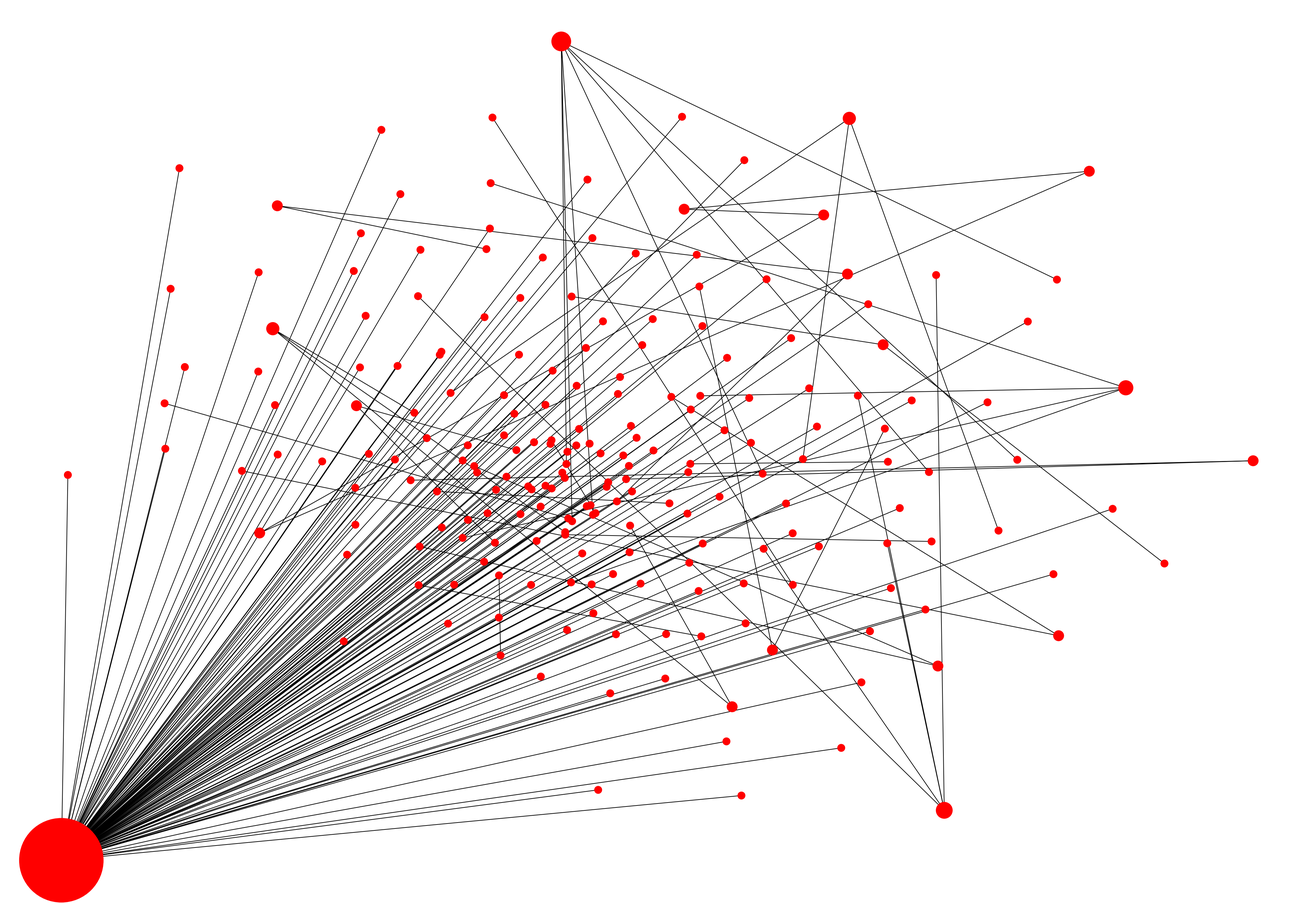
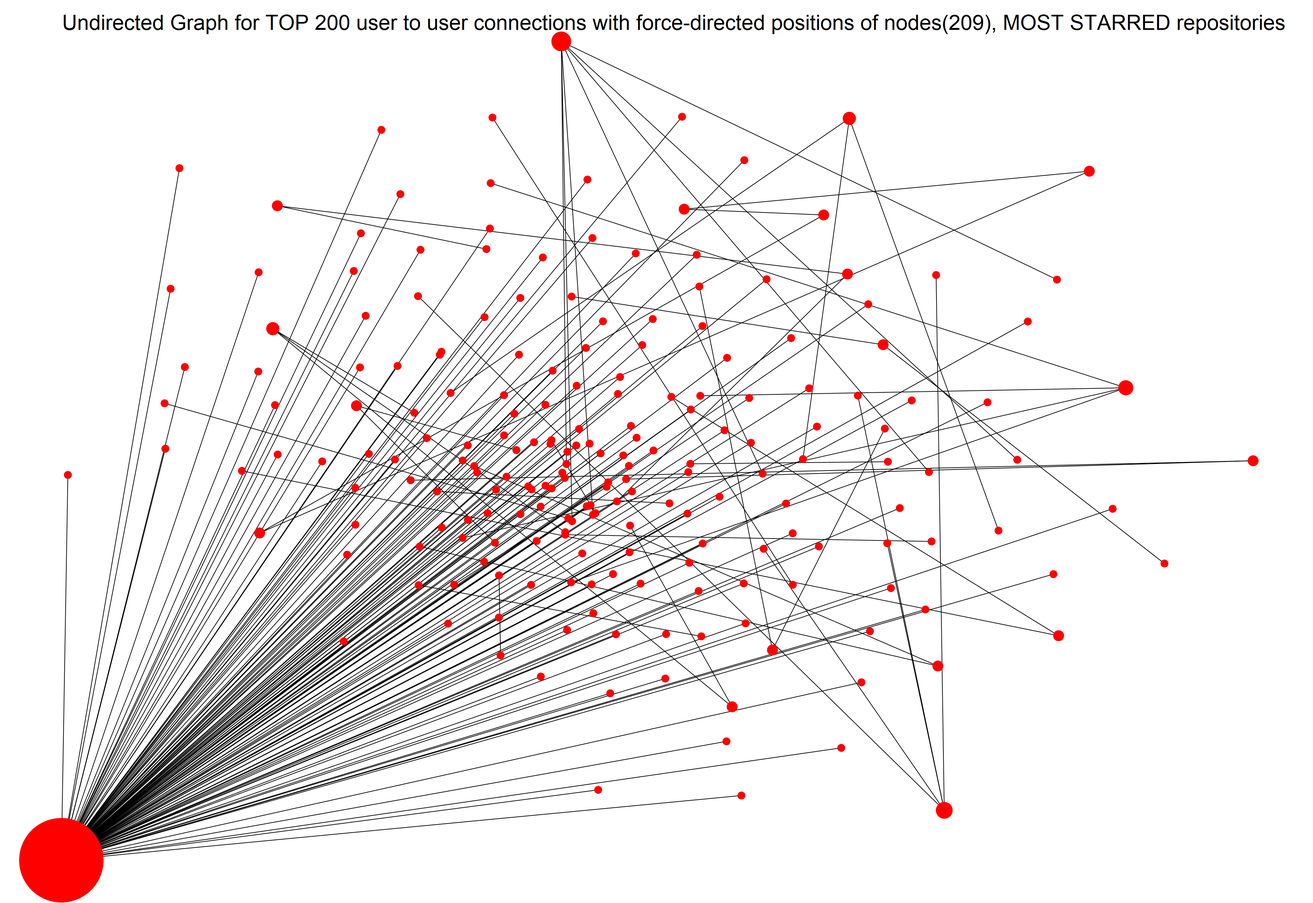
sdfsd12

Changed region(s): [[0.0625, 0.0, 0.9688, 0.0309]]

diff --git a/index.html b/index.html
@@ -304,7 +304,7 @@
                     </div>
                     <div class="s-portfolio__caption-hover--cc">
                         <div class="g-margin-b-25--xs">
-                            <h2 class="g-font-size-18--xs g-color--white g-margin-b-5--xs">Directed Graph for rep2rep with</h2>
+                            <h2 class="g-font-size-18--xs g-color--white g-margin-b-5--xs">Directed Graph for rep2rep with force-directed positions</h2>
                             <p class="g-color--white-opacity">Directed Graph for TOP 1000 repository to repository connections with force-directed positions to show how connections between repositories are built. Size corresponds to the degree of node. Color corresponds to the number of contributors. Width of edge of the weight of connection(meaning how many users are shared between them).</p>
                         </div>
                         <ul class="list-inline g-ul-li-lr-5--xs g-margin-b-0--xs">
@@ -342,7 +342,7 @@
                     </div>
                     <div class="s-portfolio__caption-hover--cc">
                         <div class="g-margin-b-25--xs">
-                            <h4 class="g-font-size-18--xs g-color--white g-margin-b-5--xs">Directed graph with betweenes centrality</h4>
+                            <h4 class="g-font-size-18--xs g-color--white g-margin-b-5--xs">Directed graph with betweenes centrality related node size</h4>
                             <p class="g-color--white-opacity">Directed Graph for TOP 1000 repository to repository connections with force-directed positions to show how connections between repositories are built. Size corresponds to the betweenes centrality. Color corresponds to the number of contributors. Width of edge of the weight of connection.</p>
                         </div>
                         <ul class="list-inline g-ul-li-lr-5--xs g-margin-b-0--xs">
@@ -355,144 +355,228 @@
                     </div>
                 </div>
                 <!-- Item -->
-                <div class="s-portfolio__item cbp-item motion graphic">
+                <div class="s-portfolio__item cbp-item rep">
                     <div class="s-portfolio__img-effect">
-                        <img src="img/400x550/01.jpg" alt="Portfolio Image">
+                        <img src="img/graphs/directedGFAEi.png" alt="directedGFAEi.png">
                     </div>
                     <div class="s-portfolio__caption-hover--cc">
                         <div class="g-margin-b-25--xs">
-                            <h4 class="g-font-size-18--xs g-color--white g-margin-b-5--xs">Portfolio Item</h4>
-                            <p class="g-color--white-opacity">by KeenThemes Inc.</p>
+                            <h4 class="g-font-size-18--xs g-color--white g-margin-b-5--xs">Directed graph with eigenvector centrality related node size</h4>
+                            <p class="g-color--white-opacity">Directed Graph for TOP 1000 repository to repository connections with force-directed positions to show how connections between repositories are built. Size corresponds to the eigenvector centrality. Color corresponds to the number of contributors. Width of edge of the weight of connection.</p>
                         </div>
                         <ul class="list-inline g-ul-li-lr-5--xs g-margin-b-0--xs">
                             <li>
-                                <a href="img/400x550/01.jpg" class="cbp-lightbox s-icon s-icon--sm s-icon--white-bg g-radius--circle" data-title="Portfolio Item <br/> by KeenThemes Inc.">
+                                <a href="img/graphs/directedGFAEi.png" class="cbp-lightbox s-icon s-icon--sm s-icon--white-bg g-radius--circle" data-title="Portfolio Item <br/> by KeenThemes Inc.">
                                     <i class="ti-fullscreen"></i>
-                                </a>
-                            </li>
-                            <li>
-                                <a href="http://themeforest.net/item/metronic-responsive-admin-dashboard-template/4021469?ref=keenthemes" class="s-icon s-icon--sm s-icon s-icon--white-bg g-radius--circle">
-                                    <i class="ti-link"></i>
                                 </a>
                             </li>
                         </ul>
                     </div>
                 </div>
                 <!-- Item -->
-                <div class="s-portfolio__item cbp-item logos graphic">
+                <div class="s-portfolio__item cbp-item rep">
                     <div class="s-portfolio__img-effect">
-                        <img src="img/970x647/09.jpg" alt="Portfolio Image">
+                        <img src="img/graphs/directedGFAcom.png" alt="Portfolio Image">
                     </div>
                     <div class="s-portfolio__caption-hover--cc">
                         <div class="g-margin-b-25--xs">
-                            <h4 class="g-font-size-18--xs g-color--white g-margin-b-5--xs">Portfolio Item</h4>
-                            <p class="g-color--white-opacity">by KeenThemes Inc.</p>
+                            <h4 class="g-font-size-18--xs g-color--white g-margin-b-5--xs">Directed graph of communities r2r connections(fa2 pos)</h4>
+                            <p class="g-color--white-opacity">Directed graph of communities present between repositories. Each color represents one community. There is around 25 communities in those top 1000 connections. Postions of nodes are calculated with force-directing algorithm.</p>
                         </div>
                         <ul class="list-inline g-ul-li-lr-5--xs g-margin-b-0--xs">
                             <li>
-                                <a href="img/970x647/09.jpg" class="cbp-lightbox s-icon s-icon--sm s-icon--white-bg g-radius--circle" data-title="Portfolio Item <br/> by KeenThemes Inc.">
+                                <a href="img/graphs/directedGFAcom.png" class="cbp-lightbox s-icon s-icon--sm s-icon--white-bg g-radius--circle" data-title="Portfolio Item <br/> by KeenThemes Inc.">
                                     <i class="ti-fullscreen"></i>
-                                </a>
-                            </li>
-                            <li>
-                                <a href="http://themeforest.net/item/metronic-responsive-admin-dashboard-template/4021469?ref=keenthemes" class="s-icon s-icon--sm s-icon s-icon--white-bg g-radius--circle">
-                                    <i class="ti-link"></i>
                                 </a>
                             </li>
                         </ul>
                     </div>
                 </div>
                 <!-- Item -->
-                <div class="s-portfolio__item cbp-item motion graphic">
+                <div class="s-portfolio__item cbp-item rep">
                     <div class="s-portfolio__img-effect">
-                        <img src="img/970x647/04.jpg" alt="Portfolio Image">
+                        <img src="img/graphs/directedGFAcom1.png" alt="Portfolio Image">
                     </div>
                     <div class="s-portfolio__caption-hover--cc">
                         <div class="g-margin-b-25--xs">
-                            <h4 class="g-font-size-18--xs g-color--white g-margin-b-5--xs">Portfolio Item</h4>
-                            <p class="g-color--white-opacity">by KeenThemes Inc.</p>
+                            <h4 class="g-font-size-18--xs g-color--white g-margin-b-5--xs">Directed graph of communities r2r connections</h4>
+                            <p class="g-color--white-opacity">Directed graph of communities present between repositories. Each color represents one community. There is around 25 communities in those top 1000 connections. Default position of nodes.</p>
                         </div>
                         <ul class="list-inline g-ul-li-lr-5--xs g-margin-b-0--xs">
                             <li>
-                                <a href="img/970x647/04.jpg" class="cbp-lightbox s-icon s-icon--sm s-icon--white-bg g-radius--circle" data-title="Portfolio Item <br/> by KeenThemes Inc.">
+                                <a href="img/graphs/directedGFAcom1.png" class="cbp-lightbox s-icon s-icon--sm s-icon--white-bg g-radius--circle" data-title="Portfolio Item <br/> by KeenThemes Inc.">
                                     <i class="ti-fullscreen"></i>
-                                </a>
-                            </li>
-                            <li>
-                                <a href="http://themeforest.net/item/metronic-responsive-admin-dashboard-template/4021469?ref=keenthemes" class="s-icon s-icon--sm s-icon s-icon--white-bg g-radius--circle">
-                                    <i class="ti-link"></i>
                                 </a>
                             </li>
                         </ul>
                     </div>
                 </div>
                 <!-- Item -->
-                <div class="s-portfolio__item cbp-item logos">
+                <div class="s-portfolio__item cbp-item rep">
                     <div class="s-portfolio__img-effect">
-                        <img src="img/400x500/03.jpg" alt="Portfolio Image">
+                        <img src="img/graphs/BAlikegraphs.png" alt="BAlikegraphs.png">
                     </div>
                     <div class="s-portfolio__caption-hover--cc">
                         <div class="g-margin-b-25--xs">
-                            <h4 class="g-font-size-18--xs g-color--white g-margin-b-5--xs">Portfolio Item</h4>
-                            <p class="g-color--white-opacity">by KeenThemes Inc.</p>
+                            <h4 class="g-font-size-18--xs g-color--white g-margin-b-5--xs">Top 100 and top 50 of repositories' connections</h4>
+                            <p class="g-color--white-opacity">Example graphs of top 100 and top 50 of repositories' connections</p>
                         </div>
                         <ul class="list-inline g-ul-li-lr-5--xs g-margin-b-0--xs">
                             <li>
-                                <a href="img/400x500/03.jpg" class="cbp-lightbox s-icon s-icon--sm s-icon--white-bg g-radius--circle" data-title="Portfolio Item <br/> by KeenThemes Inc.">
+                                <a href="img/graphs/BAlikegraphs.png" class="cbp-lightbox s-icon s-icon--sm s-icon--white-bg g-radius--circle" data-title="Portfolio Item <br/> by KeenThemes Inc.">
                                     <i class="ti-fullscreen"></i>
-                                </a>
-                            </li>
-                            <li>
-                                <a href="http://themeforest.net/item/metronic-responsive-admin-dashboard-template/4021469?ref=keenthemes" class="s-icon s-icon--sm s-icon s-icon--white-bg g-radius--circle">
-                                    <i class="ti-link"></i>
                                 </a>
                             </li>
                         </ul>
                     </div>
                 </div>
                 <!-- Item -->
-                <div class="s-portfolio__item cbp-item motion graphic">
+                <div class="s-portfolio__item cbp-item rep">
                     <div class="s-portfolio__img-effect">
-                        <img src="img/400x500/04.jpg" alt="Portfolio Image">
+                        <img src="img/graphs/BAlikegraphs.png" alt="Portfolio Image">
                     </div>
                     <div class="s-portfolio__caption-hover--cc">
                         <div class="g-margin-b-25--xs">
-                            <h4 class="g-font-size-18--xs g-color--white g-margin-b-5--xs">Portfolio Item</h4>
-                            <p class="g-color--white-opacity">by KeenThemes Inc.</p>
+                            <h4 class="g-font-size-18--xs g-color--white g-margin-b-5--xs">Top 10 and top 5 of repositories' connections with names</h4>
+                            <p class="g-color--white-opacity">Example graphs of top 100 and top 50 of repositories' connections with names of repositories.</p>
                         </div>
                         <ul class="list-inline g-ul-li-lr-5--xs g-margin-b-0--xs">
                             <li>
-                                <a href="img/400x500/04.jpg" class="cbp-lightbox s-icon s-icon--sm s-icon--white-bg g-radius--circle" data-title="Portfolio Item <br/> by KeenThemes Inc.">
+                                <a href="img/graphs/BAlikegraphs.png" class="cbp-lightbox s-icon s-icon--sm s-icon--white-bg g-radius--circle" data-title="Portfolio Item <br/> by KeenThemes Inc.">
                                     <i class="ti-fullscreen"></i>
-                                </a>
-                            </li>
-                            <li>
-                                <a href="http://themeforest.net/item/metronic-responsive-admin-dashboard-template/4021469?ref=keenthemes" class="s-icon s-icon--sm s-icon s-icon--white-bg g-radius--circle">
-                                    <i class="ti-link"></i>
                                 </a>
                             </li>
                         </ul>
                     </div>
                 </div>
                 <!-- Item -->
-                <div class="s-portfolio__item cbp-item motion stats">
+                <div class="s-portfolio__item cbp-item user">
                     <div class="s-portfolio__img-effect">
-                        <img src="img/970x647/07.jpg" alt="Portfolio Image">
+                        <img src="img/graphs/directedGFAUser.png" alt="directedGFAUser">
                     </div>
                     <div class="s-portfolio__caption-hover--cc">
                         <div class="g-margin-b-25--xs">
-                            <h4 class="g-font-size-18--xs g-color--white g-margin-b-5--xs">Portfolio Item</h4>
-                            <p class="g-color--white-opacity">by KeenThemes Inc.</p>
+                            <h4 class="g-font-size-18--xs g-color--white g-margin-b-5--xs">Directed Graph for user2user with force-directed positions</h4>
+                            <p class="g-color--white-opacity">Directed Graph for TOP 200 user to user connections with force-directed positions to show how connections between users are built.
+                              Sizes correspond to the degree of the node. Weight corresponds to the number of commits. Width of edge of the weight of connection(meaning how many most starred repositories are shared between them).</p>
                         </div>
                         <ul class="list-inline g-ul-li-lr-5--xs g-margin-b-0--xs">
                             <li>
-                                <a href="img/970x647/07.jpg" class="cbp-lightbox s-icon s-icon--sm s-icon--white-bg g-radius--circle" data-title="Portfolio Item <br/> by KeenThemes Inc.">
+                                <a href="img/graphs/directedGFAUser.png" class="cbp-lightbox s-icon s-icon--sm s-icon--white-bg g-radius--circle" data-title="Portfolio Item <br/> by KeenThemes Inc.">
                                     <i class="ti-fullscreen"></i>
                                 </a>
                             </li>
+                        </ul>
+                    </div>
+                </div>
+                <!-- Item -->
+                <div class="s-portfolio__item cbp-item user">
+                    <div class="s-portfolio__img-effect">
+                        <img src="img/graphs/undirectedGFAUser.png" alt="undirectedGFAUser">
+                    </div>
+                    <div class="s-portfolio__caption-hover--cc">
+                        <div class="g-margin-b-25--xs">
+                            <h4 class="g-font-size-18--xs g-color--white g-margin-b-5--xs">Undirected Graph for user2user with force-directed positions</h4>
+                            <p class="g-color--white-opacity">Directed Graph for TOP 200 user to user connections with force-directed positions to show how connections between users are built.
+                              Sizes correspond to the degree of the node. Weight corresponds to the number of commits. Width of edge of the weight of connection(meaning how many most starred repositories are shared between them). </p>
+                        </div>
+                        <ul class="list-inline g-ul-li-lr-5--xs g-margin-b-0--xs">
                             <li>
-                                <a href="http://themeforest.net/item/metronic-responsive-admin-dashboard-template/4021469?ref=keenthemes" class="s-icon s-icon--sm s-icon s-icon--white-bg g-radius--circle">
-                                    <i class="ti-link"></i>
+                                <a href="img/graphs/undirectedGFAUser.png" class="cbp-lightbox s-icon s-icon--sm s-icon--white-bg g-radius--circle" data-title="Portfolio Item <br/> by KeenThemes Inc.">
+                                    <i class="ti-fullscreen"></i>
+                                </a>
+                            </li>
+                        </ul>
+                    </div>
+                </div>
+                <div class="s-portfolio__item cbp-item user">
+                    <div class="s-portfolio__img-effect">
+                        <img src="img/graphs/directedGUser.png" alt="directedGUser.png">
+                    </div>
+                    <div class="s-portfolio__caption-hover--cc">
+                        <div class="g-margin-b-25--xs">
+                            <h4 class="g-font-size-18--xs g-color--white g-margin-b-5--xs">Directed Graph for user2user with default positions</h4>
+                            <p class="g-color--white-opacity">Directed Graph for TOP 200 user to user connections with default positions to show how connections between users are built.
+                              Sizes correspond to the degree of the node. Weight corresponds to the number of commits. Width of edge of the weight of connection(meaning how many most starred repositories are shared between them). </p>
+                        </div>
+                        <ul class="list-inline g-ul-li-lr-5--xs g-margin-b-0--xs">
+                            <li>
+                                <a href="img/graphs/directedGUser.png" class="cbp-lightbox s-icon s-icon--sm s-icon--white-bg g-radius--circle" data-title="Portfolio Item <br/> by KeenThemes Inc.">
+                                    <i class="ti-fullscreen"></i>
+                                </a>
+                            </li>
+                        </ul>
+                    </div>
+                </div>
+                <div class="s-portfolio__item cbp-item user">
+                    <div class="s-portfolio__img-effect">
+                        <img src="img/graphs/directedGUser1.png" alt="undirectedGFAUser">
+                    </div>
+                    <div class="s-portfolio__caption-hover--cc">
+                        <div class="g-margin-b-25--xs">
+                            <h4 class="g-font-size-18--xs g-color--white g-margin-b-5--xs">Undirected Graph for user2user with default positions</h4>
+                            <p class="g-color--white-opacity">Directed Graph for TOP 200 user to user connections with default positions to show how connections between users are built.
+                              Sizes correspond to the degree of the node. Weight corresponds to the number of commits. Width of edge of the weight of connection(meaning how many most starred repositories are shared between them). </p>
+                        </div>
+                        <ul class="list-inline g-ul-li-lr-5--xs g-margin-b-0--xs">
+                            <li>
+                                <a href="img/graphs/directedGUser1.png" class="cbp-lightbox s-icon s-icon--sm s-icon--white-bg g-radius--circle" data-title="Portfolio Item <br/> by KeenThemes Inc.">
+                                    <i class="ti-fullscreen"></i>
+                                </a>
+                            </li>
+                        </ul>
+                    </div>
+                </div>
+                <div class="s-portfolio__item cbp-item user">
+                    <div class="s-portfolio__img-effect">
+                        <img src="img/graphs/directedGFABetweenesUser.png" alt="undirectedGFAUser">
+                    </div>
+                    <div class="s-portfolio__caption-hover--cc">
+                        <div class="g-margin-b-25--xs">
+                            <h4 class="g-font-size-18--xs g-color--white g-margin-b-5--xs">Directed Graph of user2user with betweeness centrality</h4>
+                            <p class="g-color--white-opacity">Directed Graph for TOP 200 user to user connections with force-directed positions for nodes(%s) with betweeness centrality related size, MOST STARRED repositories </p>
+                        </div>
+                        <ul class="list-inline g-ul-li-lr-5--xs g-margin-b-0--xs">
+                            <li>
+                                <a href="img/graphs/directedGFABetweenesUser.png" class="cbp-lightbox s-icon s-icon--sm s-icon--white-bg g-radius--circle" data-title="Portfolio Item <br/> by KeenThemes Inc.">
+                                    <i class="ti-fullscreen"></i>
+                                </a>
+                            </li>
+                        </ul>
+                    </div>
+                </div>
+                <div class="s-portfolio__item cbp-item user">
+                    <div class="s-portfolio__img-effect">
+                        <img src="img/graphs/directedGFAcomUser.png" alt="Portfolio Image">
+                    </div>
+                    <div class="s-portfolio__caption-hover--cc">
+                        <div class="g-margin-b-25--xs">
+                            <h4 class="g-font-size-18--xs g-color--white g-margin-b-5--xs">Directed graph of communities user2user connections(fa2 pos)</h4>
+                            <p class="g-color--white-opacity">Directed graph of communities present between users. Each color represents one community. There is around 25 communities in those top 200 connections. Postions of nodes are calculated with force-directing algorithm.</p>
+                        </div>
+                        <ul class="list-inline g-ul-li-lr-5--xs g-margin-b-0--xs">
+                            <li>
+                                <a href="img/graphs/directedGFAcomUser.png" class="cbp-lightbox s-icon s-icon--sm s-icon--white-bg g-radius--circle" data-title="Portfolio Item <br/> by KeenThemes Inc.">
+                                    <i class="ti-fullscreen"></i>
+                                </a>
+                            </li>
+                        </ul>
+                    </div>
+                </div>
+                <!-- Item -->
+                <div class="s-portfolio__item cbp-item user">
+                    <div class="s-portfolio__img-effect">
+                        <img src="img/graphs/directedGFAcom1User.png" alt="Portfolio Image">
+                    </div>
+                    <div class="s-portfolio__caption-hover--cc">
+                        <div class="g-margin-b-25--xs">
+                            <h4 class="g-font-size-18--xs g-color--white g-margin-b-5--xs">Directed graph of communities user2user connections</h4>
+                            <p class="g-color--white-opacity">Directed graph of communities present between users. Each color represents one community. There is around 25 communities in those top 200 connections. Default position of nodes.</p>
+                        </div>
+                        <ul class="list-inline g-ul-li-lr-5--xs g-margin-b-0--xs">
+                            <li>
+                                <a href="img/graphs/directedGFAcom1User.png" class="cbp-lightbox s-icon s-icon--sm s-icon--white-bg g-radius--circle" data-title="Portfolio Item <br/> by KeenThemes Inc.">
+                                    <i class="ti-fullscreen"></i>
                                 </a>
                             </li>
                         </ul>
@@ -632,6 +716,50 @@
         </div>
         <!-- End Portfolio -->
 
+        <!-- Testimonials -->
+        <div class="g-hor-divider__dashed--sky-light g-padding-y-80--xs g-padding-y-125--xsm">
+            <div class="container g-text-center--xs">
+                <p class="text-uppercase g-font-size-14--xs g-font-weight--700 g-color--primary g-letter-spacing--2 g-margin-b-50--xs">Conclusions from the project</p>
+                <div class="s-swiper js__swiper-testimonials">
+                    <!-- Swiper Wrapper -->
+                    <div class="swiper-wrapper g-margin-b-50--xs">
+                        <div class="swiper-slide g-padding-x-130--sm g-padding-x-150--lg">
+                            <div class="g-padding-x-20--xs g-padding-x-50--lg">
+                                <div class="g-margin-b-40--xs">
+                                    <p class="g-font-size-22--xs g-font-size-28--sm g-color--heading"><i>" Connections between users and repostories are not as easy to define and present on graphs as they may have seemed in the first place. Hwoever graphs acquired seem like a good insight into those connections. "</i></p>
+                                </div>
+                                <div class="center-block g-hor-divider__solid--heading-light g-width-100--xs g-margin-b-30--xs"></div>
+                            </div>
+                        </div>
+                        <div class="swiper-slide g-padding-x-130--sm g-padding-x-150--lg">
+                            <div class="g-padding-x-20--xs g-padding-x-50--lg">
+                                <div class="g-margin-b-40--xs">
+                                    <p class="g-font-size-22--xs g-font-size-28--sm g-color--heading"><i>" Data mining from Github isn't as hard as it may seem in the first place. Most tools here were custom made with the use of Github API and data acquired was with around 80% success rate(some network problems). "</i></p>
+                                </div>
+                                <div class="center-block g-hor-divider__solid--heading-light g-width-100--xs g-margin-b-30--xs"></div>
+                            </div>
+                        </div>
+                        <div class="swiper-slide g-padding-x-130--sm g-padding-x-150--lg">
+                            <div class="g-padding-x-20--xs g-padding-x-50--lg">
+                                <div class="g-margin-b-40--xs">
+                                    <p class="g-font-size-22--xs g-font-size-28--sm g-color--heading"><i>" There are some interesting statistics like desparity between most starred and most forked repositories. As well as interesting trends of updates and repository creations that are rising over the years. "</i></p>
+                                </div>
+                                <div class="center-block g-hor-divider__solid--heading-light g-width-100--xs g-margin-b-30--xs"></div>
+                            </div>
+                        </div>
+                    </div>
+                    <!-- End Swipper Wrapper -->
+
+                    <!-- Arrows -->
+                    <div class="g-font-size-22--xs g-color--heading js__swiper-fraction"></div>
+                    <a href="javascript:void(0);" class="g-display-none--xs g-display-inline-block--sm s-swiper__arrow-v1--right s-icon s-icon--md s-icon--primary-brd g-radius--circle ti-angle-right js__swiper-btn--next"></a>
+                    <a href="javascript:void(0);" class="g-display-none--xs g-display-inline-block--sm s-swiper__arrow-v1--left s-icon s-icon--md s-icon--primary-brd g-radius--circle ti-angle-left js__swiper-btn--prev"></a>
+                    <!-- End Arrows -->
+                </div>
+            </div>
+        </div>
+        <!-- End Testimonials -->
+
         <!-- Speakers -->
         <div class="g-hor-divider__dashed--sky-light">
             <div class="container g-padding-y-80--xs g-padding-y-125--sm">
@@ -679,7 +807,7 @@
             <div class="s-swiper js__swiper-clients">
                     <div class="swiper-slide">
                         <div class="g-text-center--xs wow fadeIn" data-wow-duration=".3" data-wow-delay=".5s">
-                            <p class="text-uppercase g-font-size-14--xs g-font-weight--700 g-color--primary g-letter-spacing--2 g-margin-b-25--xs">REPOSITORY WITH ALL THE RESOURCE FILES FOR THE PROJECT</p>
+                            <p class="text-uppercase g-font-size-14--xs g-font-weight--700 g-color--primary g-letter-spacing--2 g-margin-b-25--xs">REPOSITORY WITH SOME OF THE RESOURCE FILES FOR THE PROJECT</p>
                             <a href="https://github.com/WakeCaine/socialgraphsfiles"><img class="s-clients-v1" src="img/clients/05-dark.png" alt="Clients Logo"></a>
                         </div>
                     </div>
